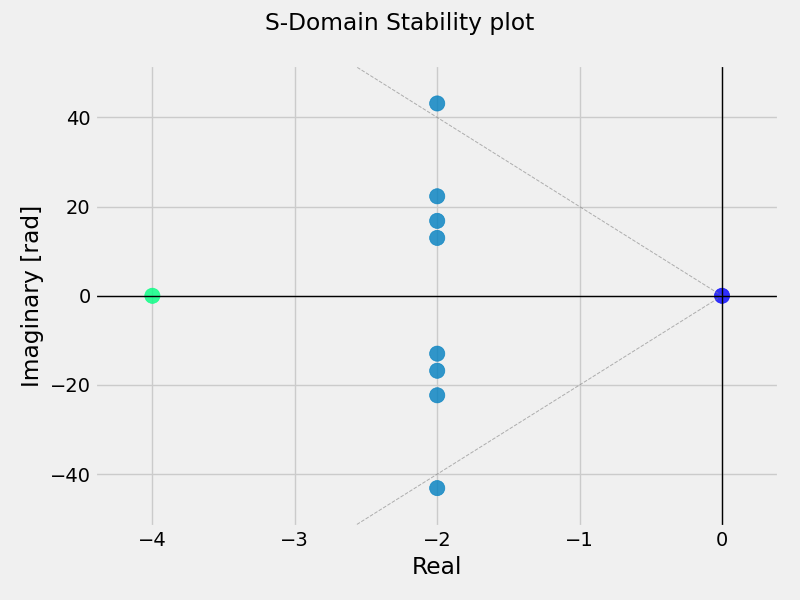
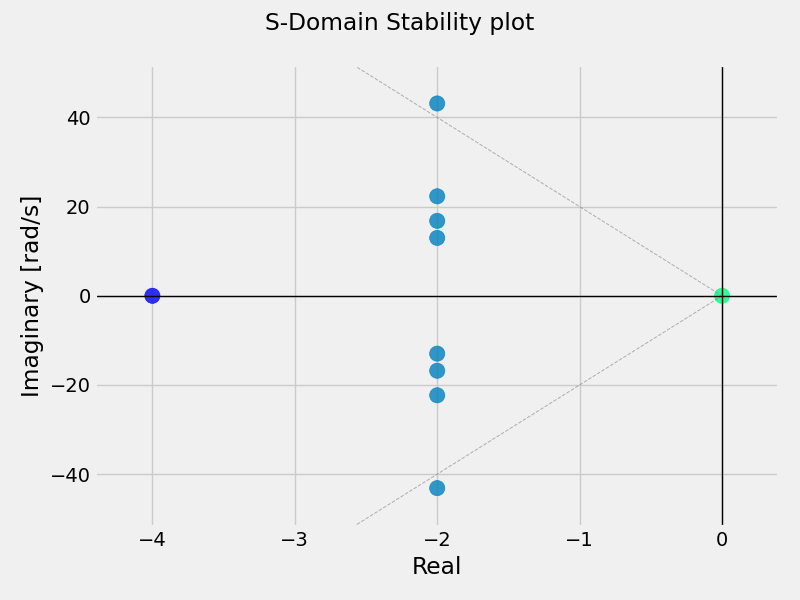
Changed figures in small signal documentation

Changed region(s): [[0.0312, 0.33, 0.0625, 0.66], [0.875, 0.48, 0.9375, 0.51], [0.1562, 0.48, 0.2188, 0.51]]

diff --git a/src/VeraGridEngine/Simulations/SmallSignalStability/small_signal_results.py b/src/VeraGridEngine/Simulations/SmallSignalStability/small_signal_results.py
@@ -122,7 +122,7 @@ class SmallSignalStabilityResults(ResultsTemplate):
                 sc = ax.scatter(re, im, c=colors, cmap='winter', s=120, alpha=0.8)
                 fig.suptitle("S-Domain Stability plot")
                 ax.set_xlabel(r'Real')
-                ax.set_ylabel(r'Imaginary [rad]')
+                ax.set_ylabel(r'Imaginary [rad/s]')
                 ax.axhline(0, color='black', linewidth=1)  # eje horizontal (y = 0)
                 ax.axvline(0, color='black', linewidth=1)
                 plt.xlim([x_min, x_max])

diff --git a/src/trunk/dynamics/Andes_vs_VeraGrid_stability.py b/src/trunk/dynamics/Andes_vs_VeraGrid_stability.py
@@ -58,8 +58,8 @@ def Andes_vs_Veragrid_stability(eigV, eigA):
     plt.plot(x_z, -y_z, '--', color='grey')
     plt.scatter(x2, y2, marker='o', color='orange', label='Andes')
     plt.scatter(x1, y1, marker='x', color='blue', label='VeraGrid')
-    plt.xlabel("Re [s -1]")
-    plt.ylabel("Im [s -1]")
+    plt.xlabel("Re")
+    plt.ylabel("Im [rad/s]")
     plt.title("Stability plot")
     margin_x = (x1.max() - x1.min()) * 0.1
     margin_y = (y1.max() - y1.min()) * 0.1
